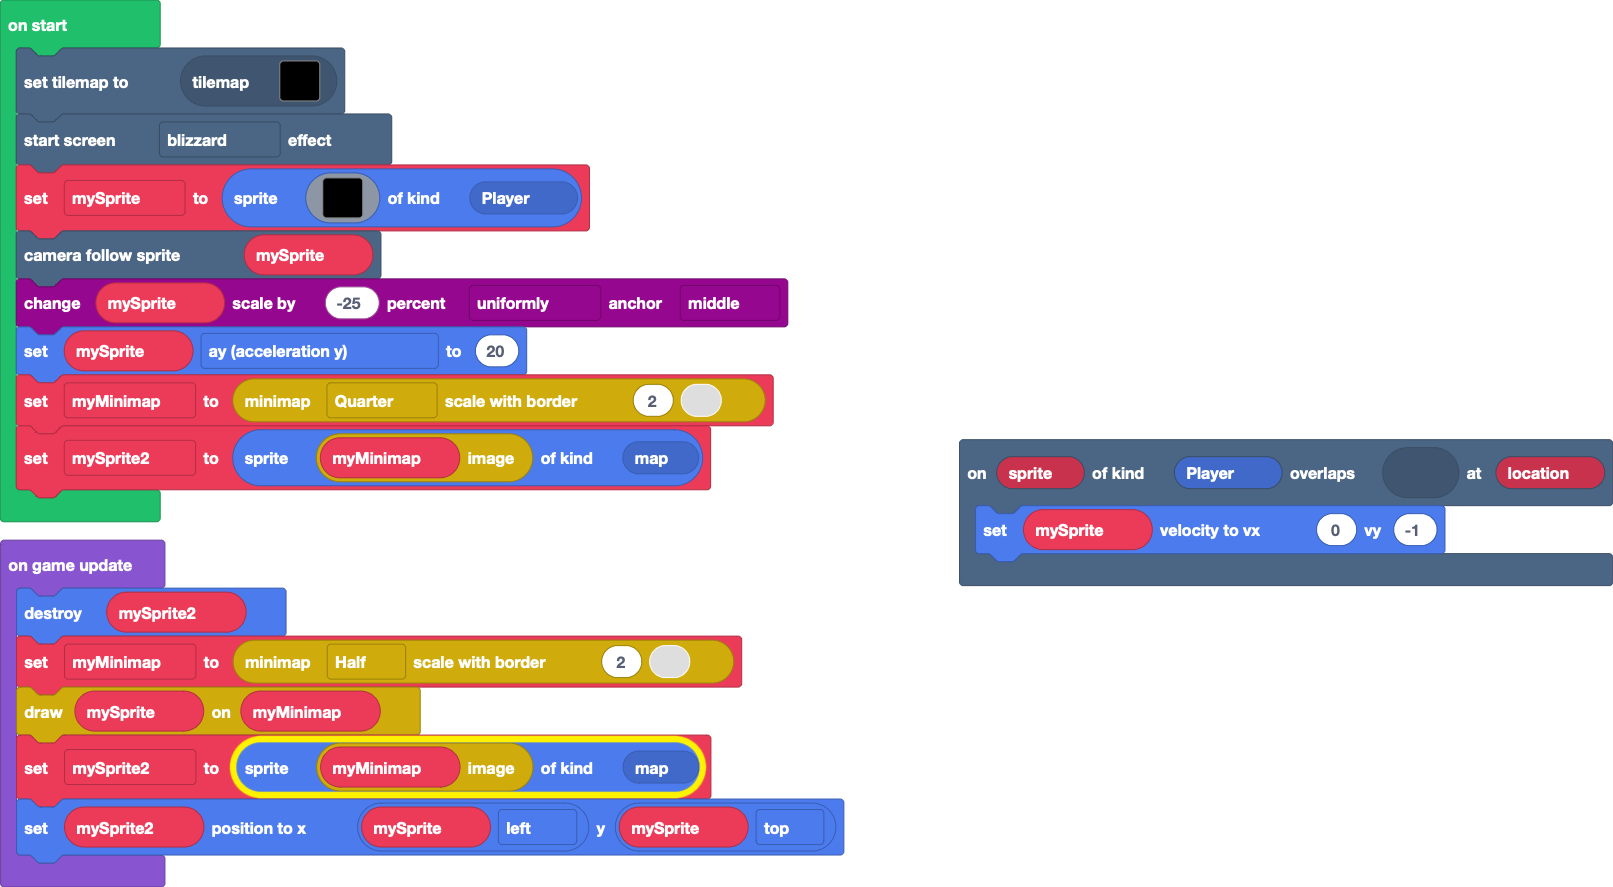
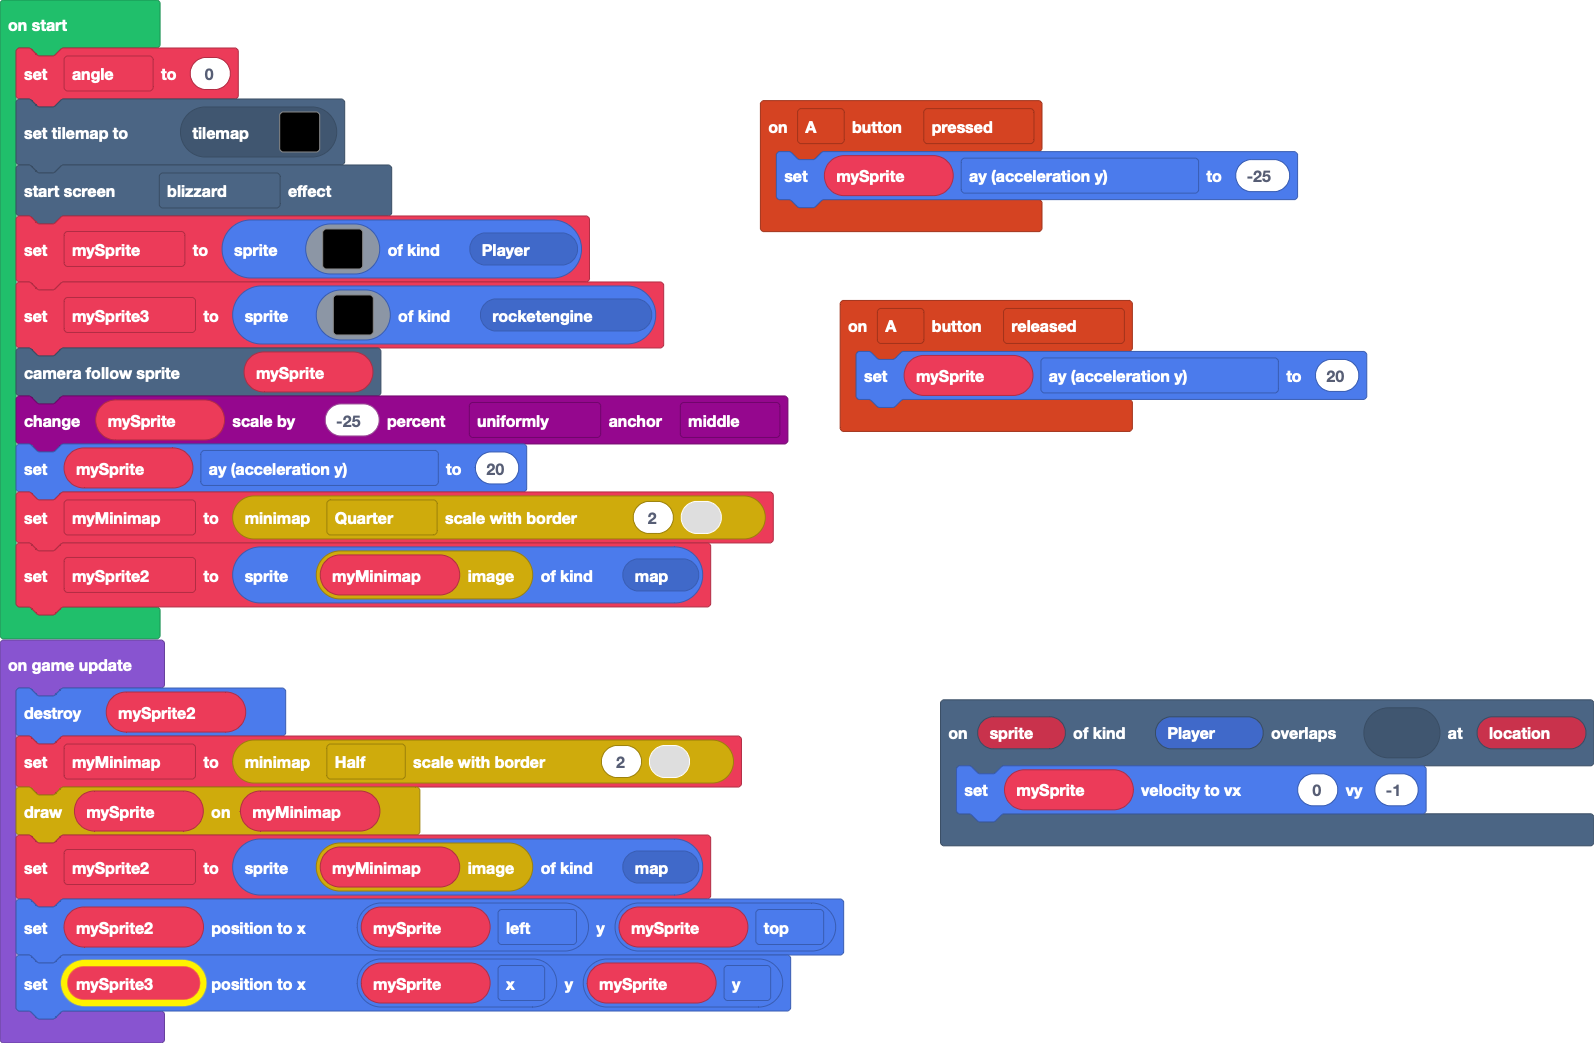
working on map and enging

diff --git a/main.ts b/main.ts
@@ -1,10 +1,18 @@
 namespace SpriteKind {
     export const map = SpriteKind.create()
+    export const rocketengine = SpriteKind.create()
 }
+controller.A.onEvent(ControllerButtonEvent.Pressed, function () {
+    mySprite.ay = -25
+})
+controller.A.onEvent(ControllerButtonEvent.Released, function () {
+    mySprite.ay = 20
+})
 scene.onOverlapTile(SpriteKind.Player, sprites.dungeon.darkGroundNorthWest0, function (sprite, location) {
     mySprite.setVelocity(0, -1)
 })
 let mySprite: Sprite = null
+let angle = 0
 tiles.setCurrentTilemap(tilemap`level1`)
 effects.blizzard.startScreenEffect()
 mySprite = sprites.create(img`
@@ -25,6 +33,10 @@ mySprite = sprites.create(img`
     . . . 2 2 e e 4 4 4 2 e e . . . 
     . . . . . 2 2 e e e e . . . . . 
     `, SpriteKind.Player)
+let mySprite3 = sprites.create(img`
+    7 3 
+    3 7 
+    `, SpriteKind.rocketengine)
 scene.cameraFollowSprite(mySprite)
 scaling.scaleByPercent(mySprite, -25, ScaleDirection.Uniformly, ScaleAnchor.Middle)
 mySprite.ay = 20
@@ -36,4 +48,5 @@ game.onUpdate(function () {
     minimap.includeSprite(myMinimap, mySprite)
     mySprite2 = sprites.create(minimap.getImage(myMinimap), SpriteKind.map)
     mySprite2.setPosition(mySprite.left, mySprite.top)
+    mySprite3.setPosition(mySprite.x, mySprite.y)
 })
